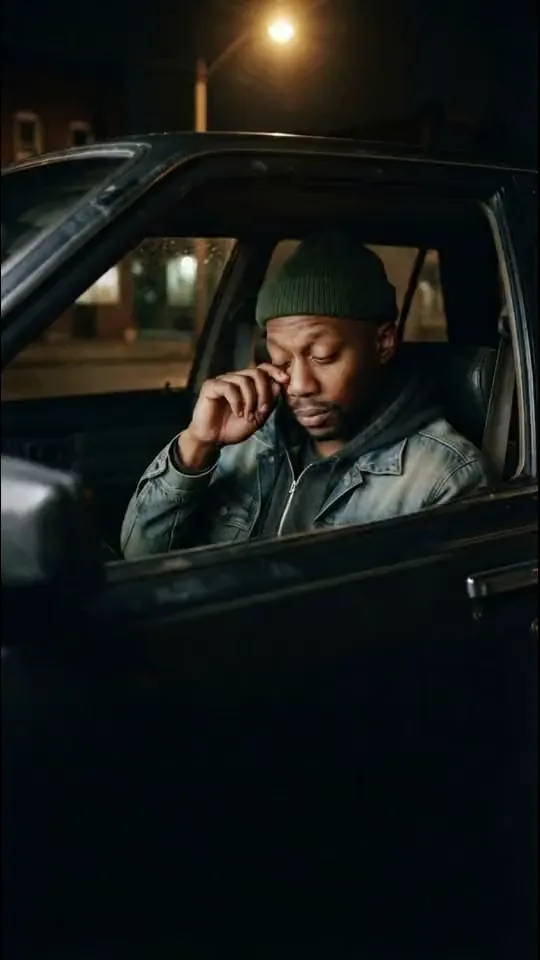
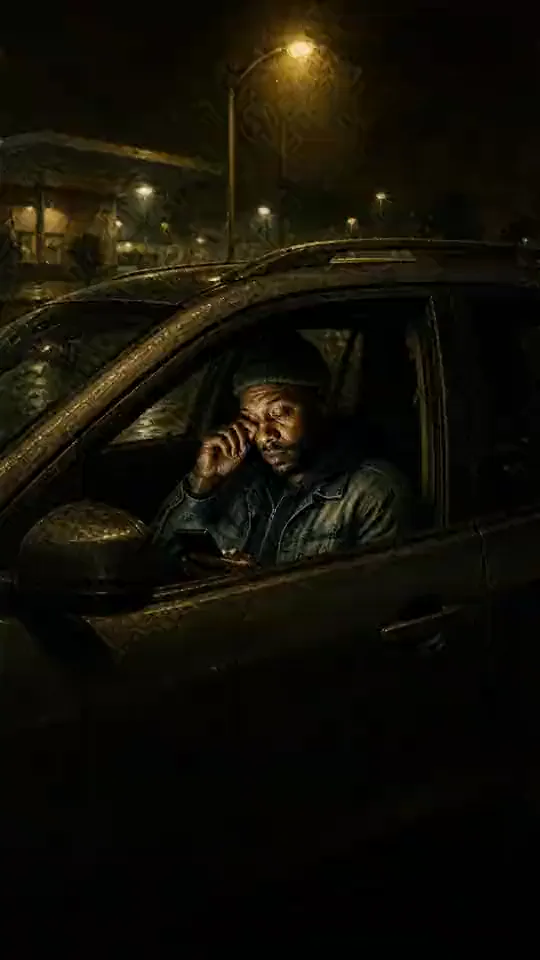
feat(web): painted hero film (six operator clips), per-clip trim in the encoder, cues re-timed to the new beats
Master 26.2 s from painted_production/clips (beat 4 trimmed to 4.0 s); desktop 720x1280 CRF 27 6.49 MB, mobile 540x960 CRF 34 2.46 MB, posters from the encodes; CINEMATIC_VERSION 2026-09-02b. Walk: film within 0.05 s of the mapped time at every position, one active scene, no problems; matrix 10/10; tests 107/107.

Changed region(s): [[0.0, 0.0, 1.0, 0.6875], [0.8593, 0.5938, 0.9185, 0.625], [0.7111, 0.625, 0.7704, 0.6562]]

diff --git a/src/components/cinematic/cinematic-cues.ts b/src/components/cinematic/cinematic-cues.ts
@@ -2,7 +2,7 @@ import {progressAtFraction, type CueSpec} from './cinematic-controller'
 
 // Bump when the encoded files change so cached copies are never scrubbed
 // against an old cue table.
-export const CINEMATIC_VERSION = '2026-09-02a'
+export const CINEMATIC_VERSION = '2026-09-02b'
 
 /** Page progress at which the film reaches its last frame (the rest is the hold). */
 export const END_AT = 0.74
@@ -12,8 +12,8 @@ export const CINEMATIC_ASSETS = {
   mobile: `/cinematic/hero-mobile.mp4?v=${CINEMATIC_VERSION}`,
   poster: '/cinematic/hero-poster.webp',
   posterMobile: '/cinematic/hero-poster-mobile.webp',
-  /** Encoded from three silent segments of the Marcus film (pump story, 2026-08-01). */
-  duration: 15.1,
+  /** Painted edition: six operator-made clips (painted_production/clips), beat 4 trimmed to 4.0 s. */
+  duration: 26.21,
 }
 
 export interface SceneSpec {
@@ -32,8 +32,9 @@ export interface SceneSpec {
   moment: string
 }
 
-// Copy uses approved brand phrases only, no figures. The film cuts at 1/3 and
-// 2/3: s1 tired at the wheel, s2 windscreen in the rain, s3 profile looking out.
+// Copy uses approved brand phrases only, no figures. The painted film has six
+// clips, one per beat (beat 5 in two): boundaries at 0.154 / 0.308 / 0.539 /
+// 0.691 / 0.846 of the film.
 // Scenes abut through their ramps (the next one enters while the previous one
 // exits) so no scroll position is ever empty; validateCues() and the tests
 // guard both the coverage and the never-two-bright rule.
@@ -42,38 +43,38 @@ export const CINEMATIC_SCENES: SceneSpec[] = [
     id: 'gross',
     headline: ['The screen', 'shows *gross*.'],
     support: 'It never shows what the drive cost you.',
-    filmFrom: 0, filmTo: 0.2,
+    filmFrom: 0, filmTo: 0.17,
     rampIn: 0, stagger: 0,
-    moment: 's1, eyes rubbed and the hand lowers (0 to 3.0 s); fully visible at load',
+    moment: 'beat 1: night, the phone glow, the hand rubbing an eye (0 to 4.0 s); fully visible at load',
   },
   {
     id: 'net',
     headline: ['Gross is', 'not *net*.'],
     support: 'Fuel, wear and an estimated tax set-aside come out first.',
-    filmFrom: 0.16, filmTo: 0.4,
-    moment: 's1 lowers the hand and looks ahead, cut to the s2 windscreen (2.4 to 6.0 s)',
+    filmFrom: 0.14, filmTo: 0.33,
+    moment: 'beat 2: pump nozzle, the open trunk with bags and boxes, red light in the wet (4.0 to 8.1 s)',
   },
   {
     id: 'number',
     headline: ['See the', '*real number*.'],
     support: 'Your vehicle, your state, your day job, in the estimate.',
-    filmFrom: 0.36, filmTo: 0.66,
-    moment: 's2 rain on the glass, hands settle on the wheel (5.4 to 10.0 s); the peak, widest span',
+    filmFrom: 0.30, filmTo: 0.56,
+    moment: 'beat 3: the close portrait, the glow warms, the face opens (8.1 to 14.1 s); the peak, widest span',
   },
   {
     id: 'inputs',
     headline: ['Built around', 'what you *enter*.'],
     support: 'Miles, hours and earnings. Optional W-2 context.',
-    filmFrom: 0.62, filmTo: 0.86,
-    moment: 's2 end into the s3 profile, the glance out of the side window (9.4 to 13.0 s)',
+    filmFrom: 0.53, filmTo: 0.72,
+    moment: 'beat 4: the e-bike courier clicks the battery in and pushes off (14.1 to 18.1 s)',
   },
   {
     id: 'yours',
     headline: ['What is', 'actually *yours*.'],
     support: 'Free core. No card. No ads. Estimates for planning. Not tax advice.',
-    filmFrom: 0.82, filmTo: 1,
+    filmFrom: 0.69, filmTo: 1,
     hold: true,
-    moment: 's3 exhale, holds through the paper hand-off (12.4 s to the end)',
+    moment: 'beat 5: the bookend at first light, then the car pulling away; holds through the paper hand-off (18.1 s to the end)',
   },
 ]
 
